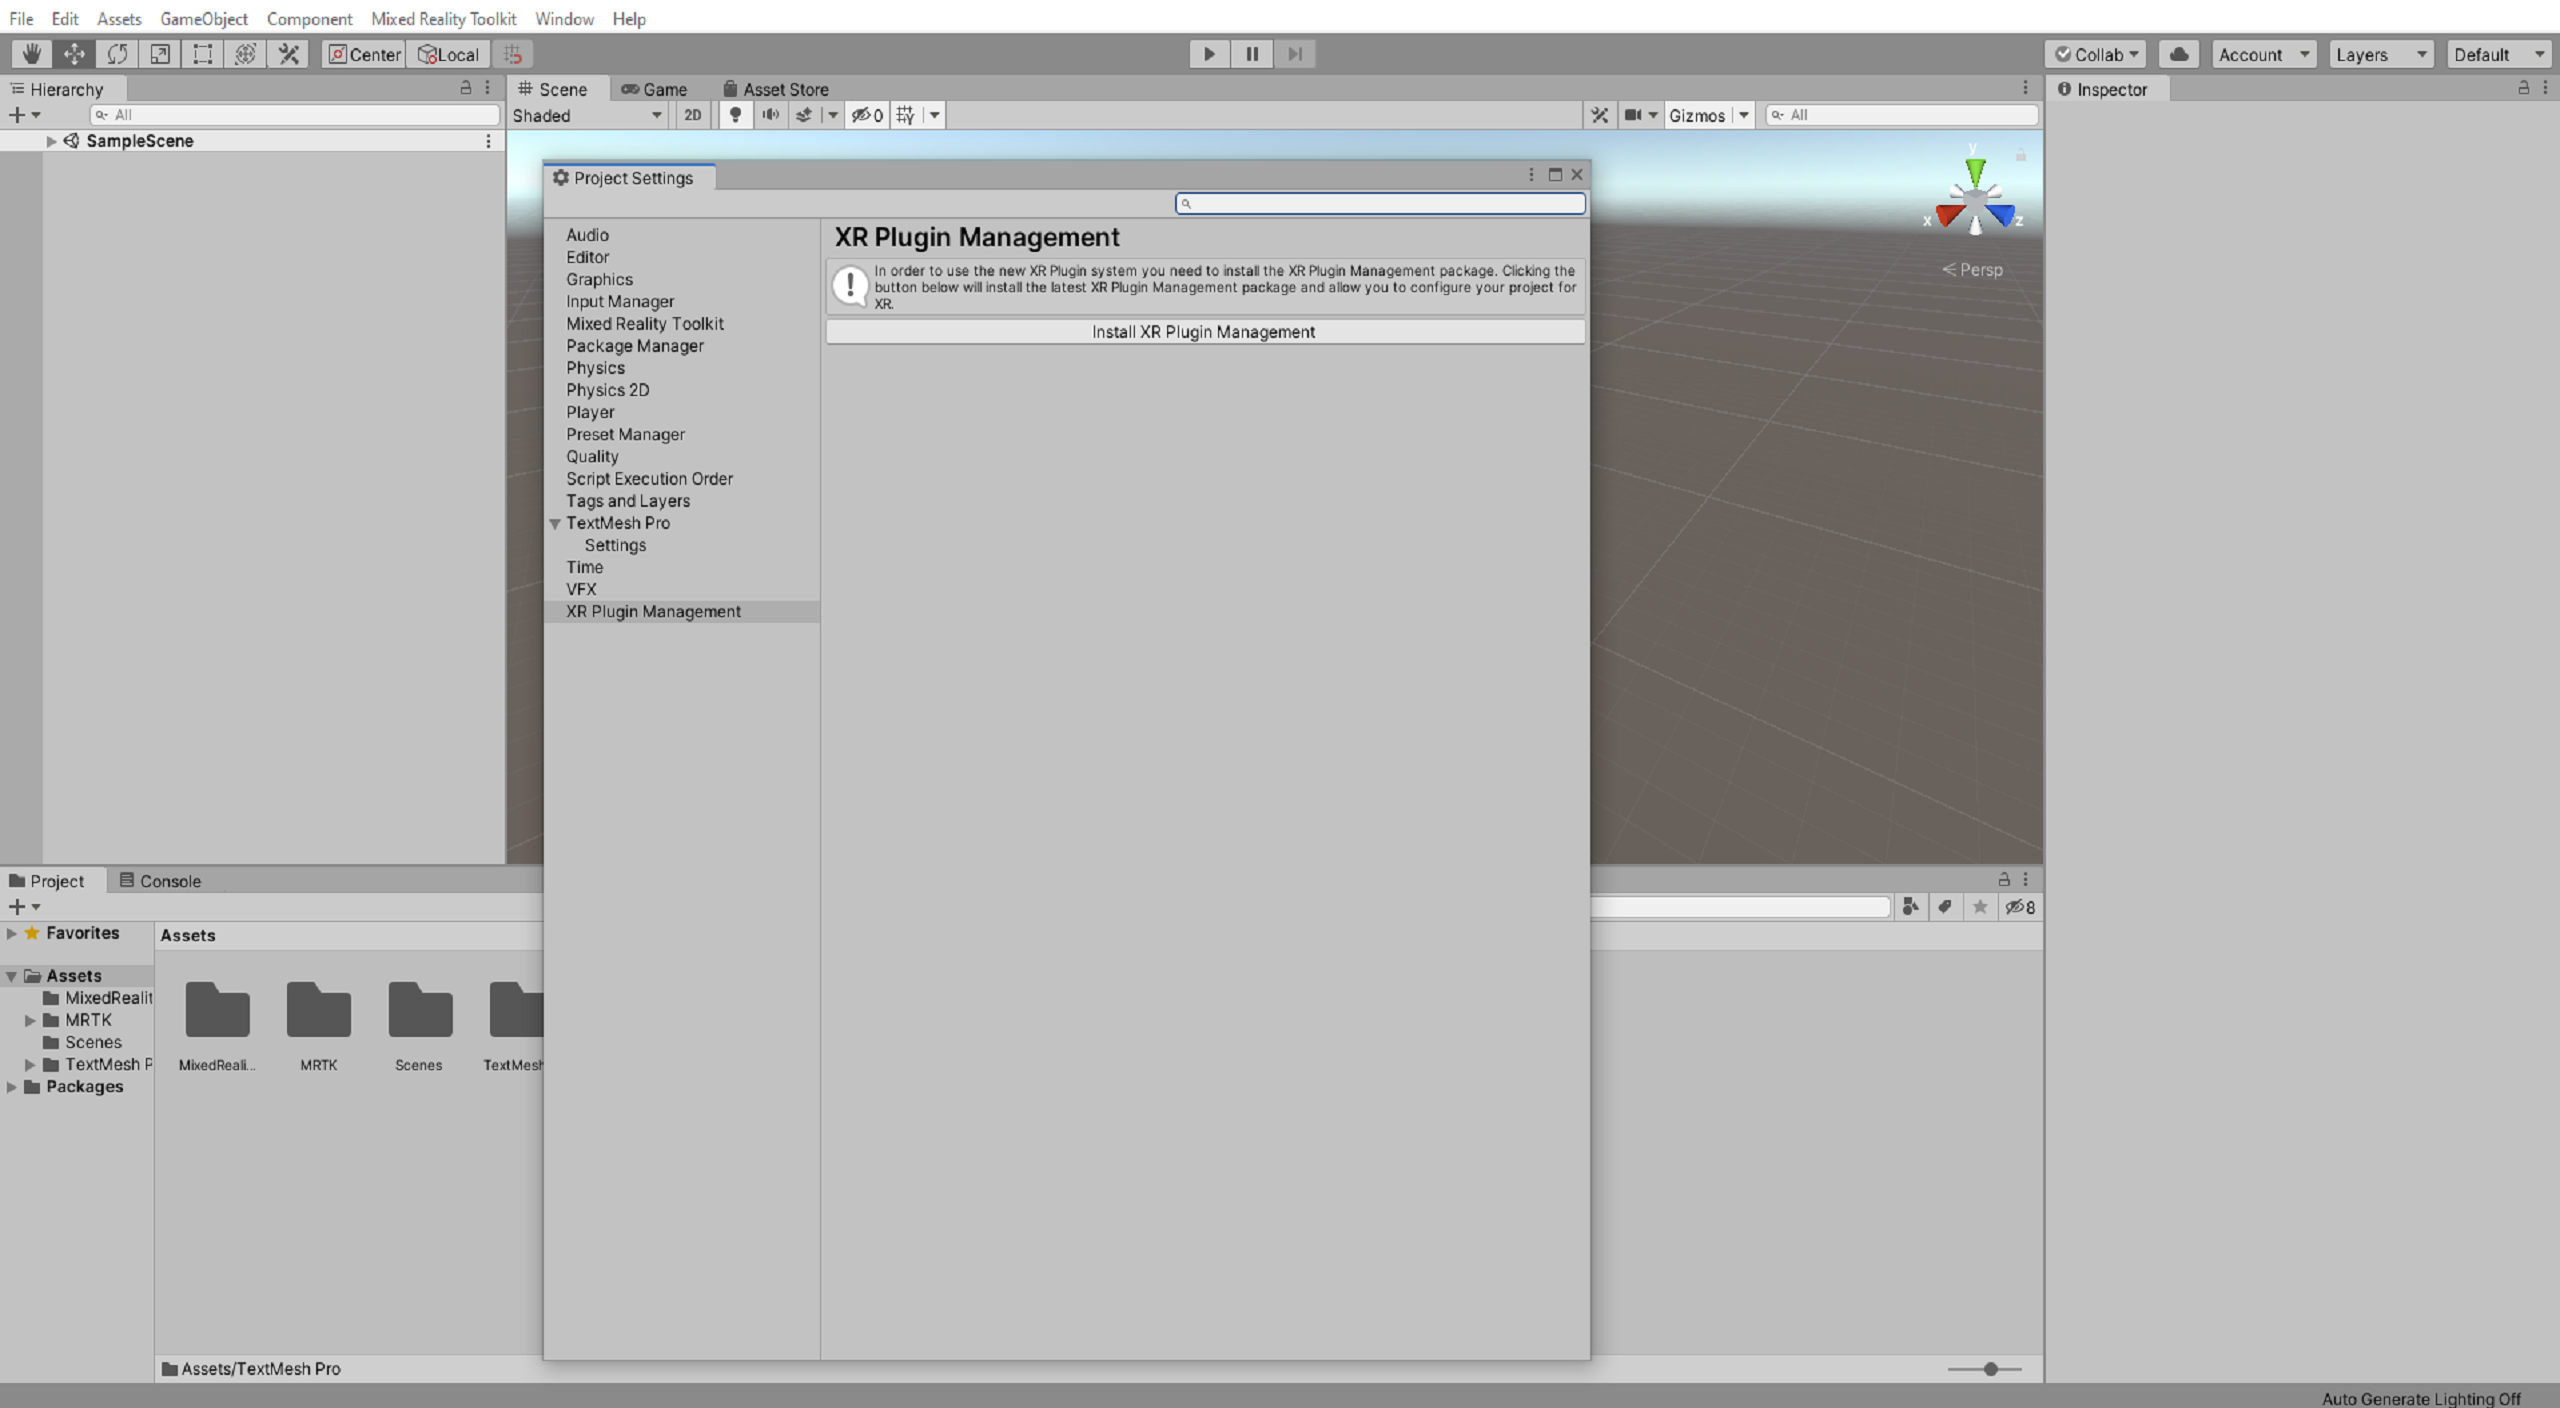
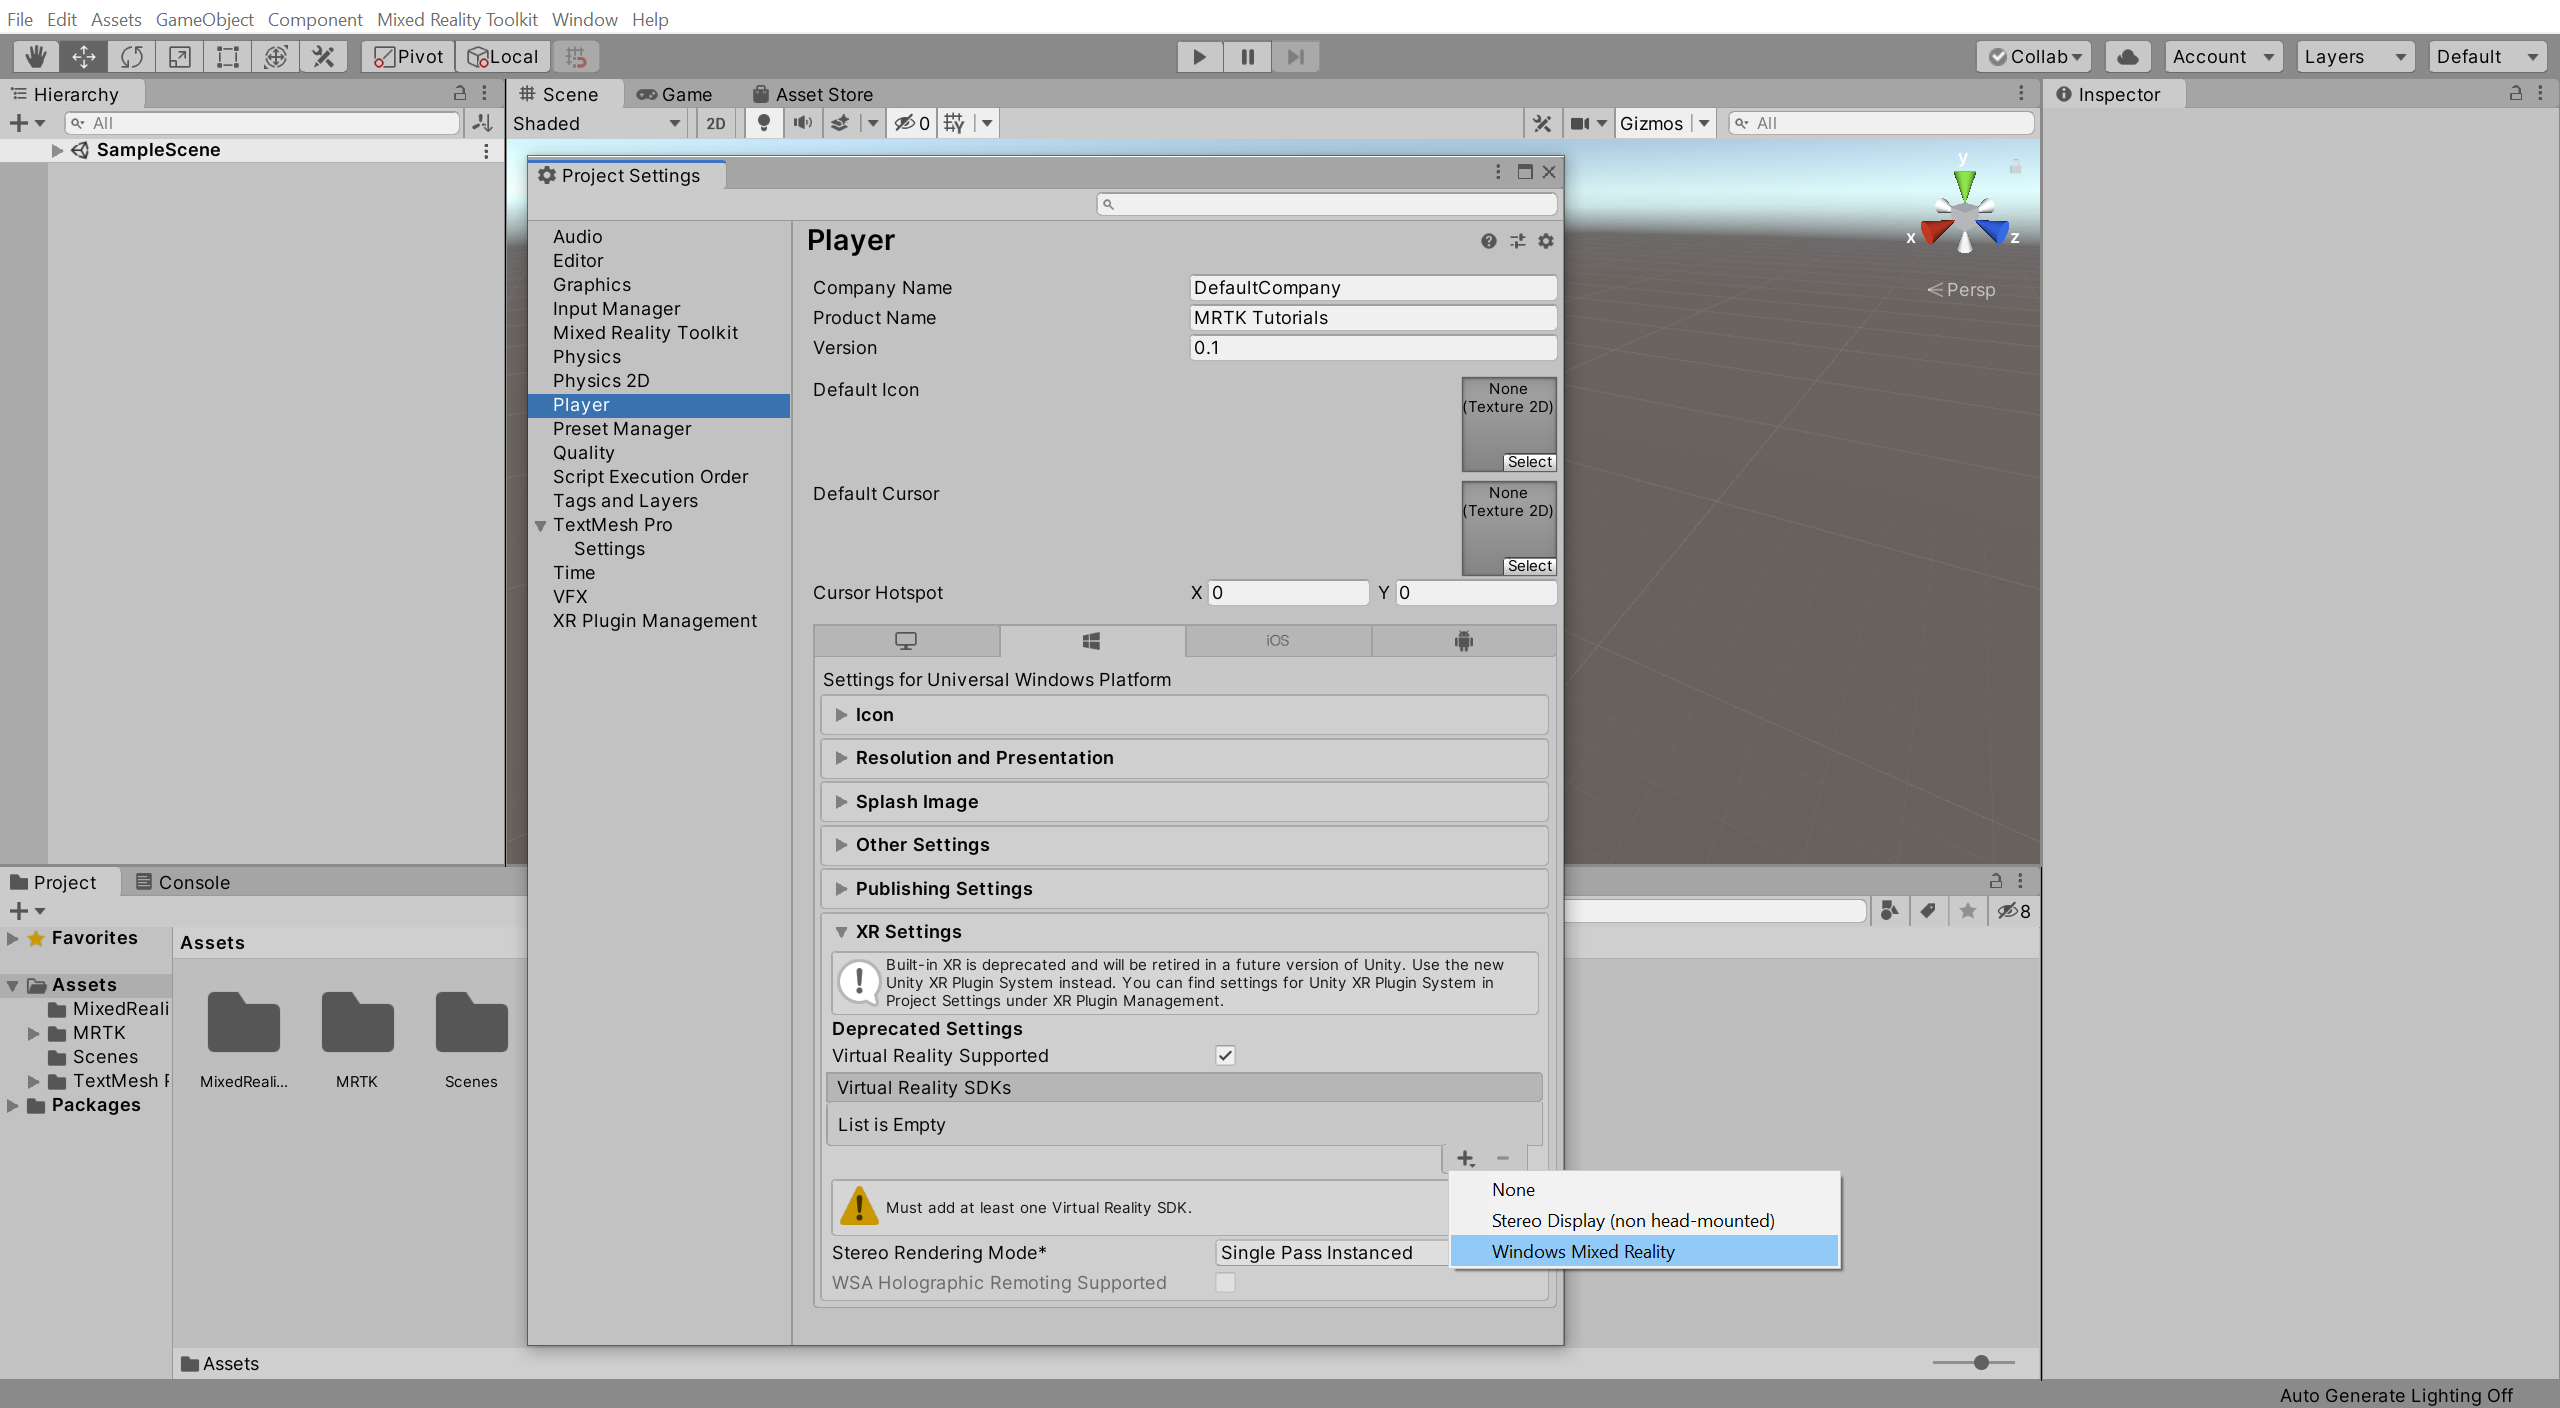
update to XR settings

diff --git a/mixed-reality-docs/mr-dev-docs/develop/unity/tutorials/mr-learning-base-02.md b/mixed-reality-docs/mr-dev-docs/develop/unity/tutorials/mr-learning-base-02.md
@@ -121,33 +121,38 @@ In the Unity menu, select **Edit** > **Project Settings...** to open the Project
 
 ![Unity Project Settings... menu path](images/mr-learning-base/base-02-section5-step2-1.png)
 
-In the Project Settings window, select **XR Plug-in Management** > **Install XR Plug-in Management**, to install XR Plug-in Management:
+In the Project Settings window, select **Player** > **XR Settings**, click the **+** icon, and select Windows Mixed Reality to add the Windows Mixed Reality SDK:
 
 ![Unity XR Settings with add Windows Mixed Reality SDK selected](images/mr-learning-base/base-02-section5-step2-2.png)
-
-After Unity has finished installing the XR Plug-in Management. Ensure that you are in Universal Windows Platform settings and Check the **Initialize XR on Startup** and **Windows Mixed Reality** checkbox.
-
-![Unity XR Settings with add Windows Mixed Reality SDK selected](images/mr-learning-base/base-02-section5-step2-2-1.png)
 
 After Unity has finished importing the Windows Mixed Reality SDK, the MRTK Project Configurator window should appear again. If it doesn't, use the Unity menu to open it.
 
 In the MRTK Project Configurator window, use the **Audio spatializer** dropdown to select the **MS HRTF Spatializer**, then click the **Apply** button to apply the setting:
 
-![Unity XR Settings with add Windows Mixed Reality SDK selected](images/mr-learning-base/base-02-section5-step2-2-2.png)
+![Unity XR Settings with add Windows Mixed Reality SDK selected](images/mr-learning-base/base-02-section5-step2-3.png)
 
 > [!TIP]
 >Setting the Audio spatializer property is optional but may improve the audio experience in your project. If you set it to MS HRTF Spatializer, this spatializer plugin will be used when Unity's AudioSource.spatialize property is enabled. To learn more about this topic, you can refer to the  <a href="https://docs.microsoft.com/en-us/windows/mixed-reality/develop/unity/tutorials/unity-spatial-audio-ch1" target="_blank"> Spatial audio tutorials</a>.
 
-In the Project Settings window, select **XR Plug-in Management** > **Windows Mixed Reality** > **Runtime Settings**, then use the **Depth Buffer Format** dropdown to select **16-bit depth:**
+In the Project Settings window, select **Player** > **XR Settings**, then use the **Depth Format** dropdown to select **16-bit depth**:
 
-![Unity Publishing Settings with Package name configured](images/mr-learning-base/base-02-section5-step2-5-1.png)
+![Unity Enable 16 Depth](images/mr-learning-base/base-02-section5-step2-4.png)
 
 > [!TIP]
 > Reducing the Depth Format to 16-bit is optional but my help improve graphics performance in your project. To learn more about this topic, you can refer to the   <a href="https://microsoft.github.io/MixedRealityToolkit-Unity/Documentation/Performance/PerfGettingStarted.html#depth-buffer-sharing-hololens" target="_blank">  Depth buffer sharing (HoloLens) </a> section of MRTK's  <a href="https://microsoft.github.io/MixedRealityToolkit-Unity/Documentation/Performance/PerfGettingStarted.html" target="_blank"> Performance </a> documentation.
 
-In the Project Settings window, select **Player** > **Publishing Settings**, then in the **Package name** field, enter a suitable name, for example, _MRTKTutorials-GettingStarted_:
+In the Project Settings window, select **XR Plug-in Management** > **Install XR Plug-in Management**, to install XR Plug-in Management:
 
 ![Unity Publishing Settings with Package name configured](images/mr-learning-base/base-02-section5-step2-5.png)
+
+after Unity has finished installing the XR Plug-in Management. Ensure that you are in Universal Windows Platform settings and Check the Initialize XR on Startup.
+
+![Unity Configuring XR plugin management](images/mr-learning-base/base-02-section5-step2-6.png)
+
+
+In the Project Settings window, select **Player** > **Publishing Settings**, then in the **Package name** field, enter a suitable name, for example, _MRTKTutorials-GettingStarted_:
+
+![Unity Publishing Settings with Package name configured](images/mr-learning-base/base-02-section5-step2-7.png)
 
 > [!NOTE]
 > The 'Package name' is the unique identifier for the app. You should change this identifier before deploying the app to avoid overwriting previously installed apps.
@@ -165,7 +170,7 @@ In the Unity menu, select **Mixed Reality Toolkit** > **Add to Scene and Configu
 
 ![Unity Add to Scene and Configure... menu path](images/mr-learning-base/base-02-section6-step1-2.png)
 
-With the **MixedRealityToolkit** object still selected in the Hierarchy window, set the **MixedRealityToolkit** configuration profile to **DefaultXRSDKConfigurationProfile**:
+With the **MixedRealityToolkit** object still selected in the Hierarchy window, in the Inspector window, verify that the **MixedRealityToolkit** configuration profile is set to **DefaultMixedRealityToolkitConfigurationProfile**:
 
 ![Unity MixedRealityToolkit component with DefaultMixedRealityTookitConfigurationProfile selected](images/mr-learning-base/base-02-section6-step1-3.png)
 
